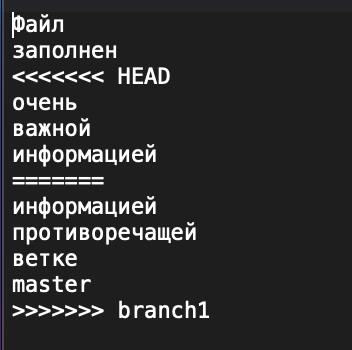
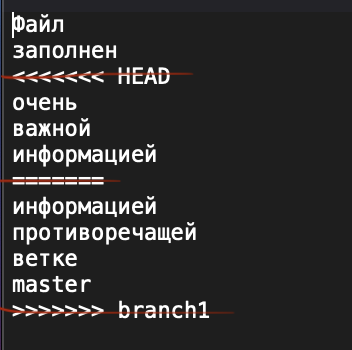
Updated screenshots and README.md

Changed region(s): [[0.0, 0.8571, 0.6562, 0.9143], [0.0, 0.2, 0.5625, 0.2286], [0.0, 0.5143, 0.3438, 0.5429]]

diff --git a/README.md b/README.md
@@ -22,3 +22,5 @@
 Переключимся обратно на master и попробуем объединить ветки, но получим ошибку
 ![Branches](screenshots/7.png)
 
+Исправляем конфликт в файле mergefile.txt
+[Fix](screenshots/8.png)
